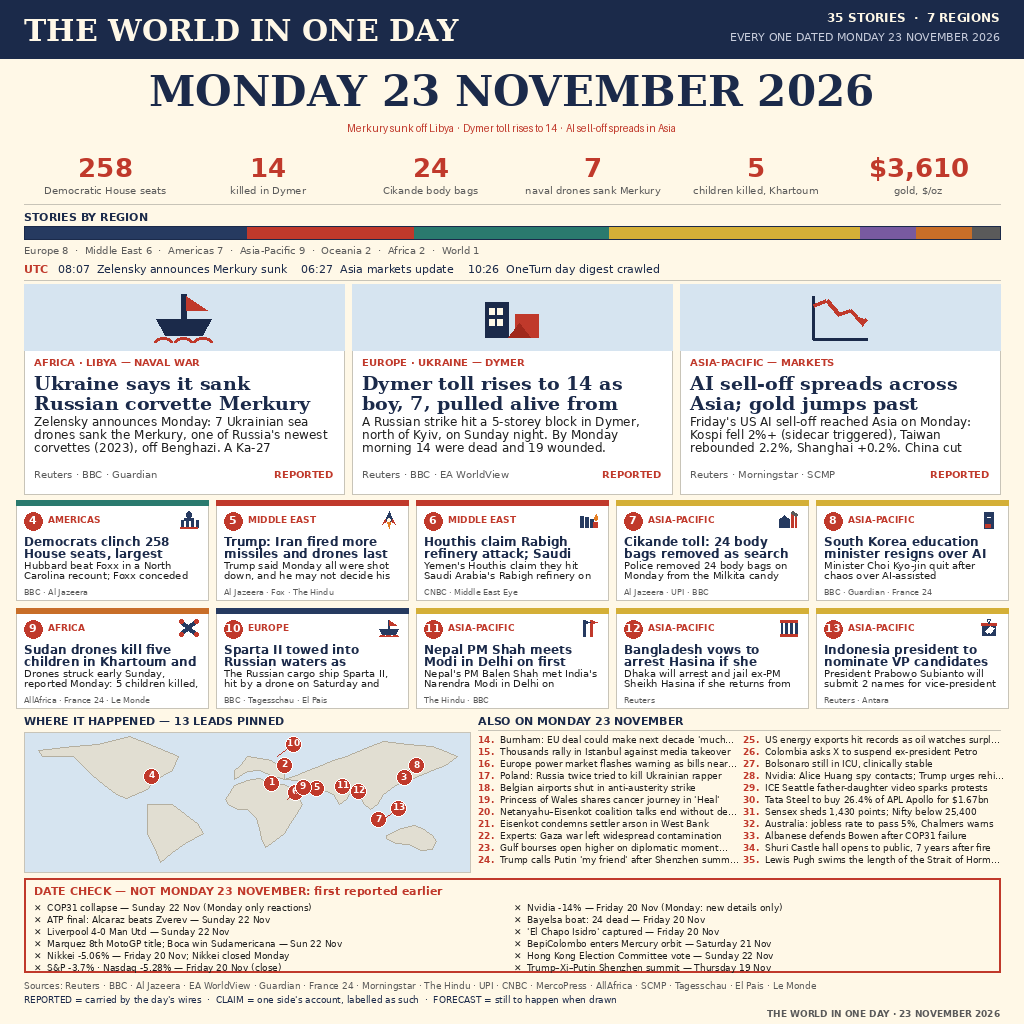
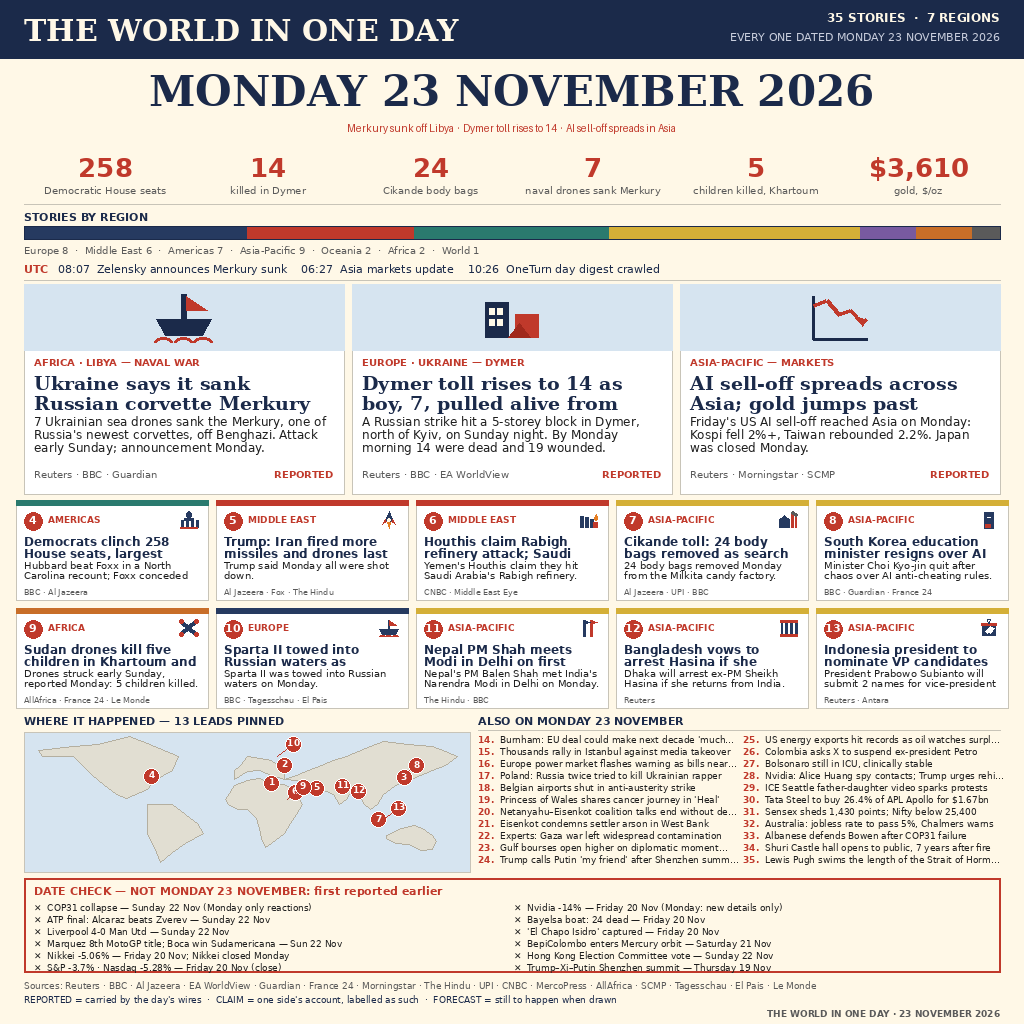
v1.1: shorten lead bodies to fit cards (no mid-sentence truncation); add body-fit guard to verify.py

diff --git a/main.py b/main.py
@@ -221,7 +221,7 @@ LEADS = [
     # num, kicker, headline, body, source, tag, region
     (1, "AFRICA · LIBYA — NAVAL WAR",
      "Ukraine says it sank Russian corvette Merkury off Libya",
-     "Zelensky announces Monday: 7 Ukrainian sea drones sank the Merkury, one of Russia's newest corvettes (2023), off Benghazi. A Ka-27 helicopter was destroyed with it; cargo ship MV Angara was also hit. Attack early Sunday; announcement Monday.",
+     "7 Ukrainian sea drones sank the Merkury, one of Russia's newest corvettes, off Benghazi. Attack early Sunday; announcement Monday.",
      "Reuters · BBC · Guardian", "REPORTED", "Africa"),
     (2, "EUROPE · UKRAINE — DYMER",
      "Dymer toll rises to 14 as boy, 7, pulled alive from rubble",
@@ -229,7 +229,7 @@ LEADS = [
      "Reuters · BBC · EA WorldView", "REPORTED", "Europe"),
     (3, "ASIA-PACIFIC — MARKETS",
      "AI sell-off spreads across Asia; gold jumps past $3,600",
-     "Friday's US AI sell-off reached Asia on Monday: Kospi fell 2%+ (sidecar triggered), Taiwan rebounded 2.2%, Shanghai +0.2%. China cut margin financing to 80% from 30 Nov. Gold +2.2% to $3,610/oz; Bitcoin $61,417. Japan was closed Monday.",
+     "Friday's US AI sell-off reached Asia on Monday: Kospi fell 2%+, Taiwan rebounded 2.2%. Japan was closed Monday.",
      "Reuters · Morningstar · SCMP", "REPORTED", "Asia-Pacific"),
     (4, "AMERICAS — US HOUSE",
      "Democrats clinch 258 House seats, largest majority since 1992",
@@ -237,35 +237,35 @@ LEADS = [
      "BBC · Al Jazeera", "REPORTED", "Americas"),
     (5, "MIDDLE EAST — IRAN",
      "Trump: Iran fired more missiles and drones last week than any week this year",
-     "Trump said Monday all were shot down, and he may not decide his next move until 2027. An Iranian attack wounded 2 in Bahrain; Iran says 2 supertankers were mined and burned near Hormuz.",
+     "Trump said Monday all were shot down.",
      "Al Jazeera · Fox · The Hindu", "REPORTED / CLAIM", "Middle East"),
     (6, "MIDDLE EAST — YEMEN / SAUDI",
      "Houthis claim Rabigh refinery attack; Saudi strike on Hodeida kills 4",
-     "Yemen's Houthis claim they hit Saudi Arabia's Rabigh refinery on the Red Sea coast. A Saudi strike on Hodeida killed at least 4 and wounded 18.",
+     "Yemen's Houthis claim they hit Saudi Arabia's Rabigh refinery.",
      "CNBC · Middle East Eye", "CLAIM / REPORTED", "Middle East"),
     (7, "ASIA-PACIFIC — INDONESIA",
      "Cikande toll: 24 body bags removed as search goes on",
-     "Police removed 24 body bags on Monday from the Milkita candy factory in Cikande, Serang, which burned on Saturday night. Dozens of workers are still missing; Sunday's toll was 3 dead, 36 missing.",
+     "24 body bags removed Monday from the Milkita candy factory.",
      "Al Jazeera · UPI · BBC", "REPORTED", "Asia-Pacific"),
     (8, "ASIA-PACIFIC — SOUTH KOREA",
      "South Korea education minister resigns over AI cheating scandal",
-     "Minister Choi Kyo-jin quit after chaos over AI-assisted anti-cheating measures for the college entrance exam. President Lee Jae Myung accepted the resignation.",
+     "Minister Choi Kyo-jin quit after chaos over AI anti-cheating rules.",
      "BBC · Guardian · France 24", "REPORTED", "Asia-Pacific"),
     (9, "AFRICA — SUDAN",
      "Sudan drones kill five children in Khartoum and Omdurman",
-     "Drones struck early Sunday, reported Monday: 5 children killed, at least 10 wounded; a UN building was damaged. Sudan's army blames neighbouring Ethiopia.",
+     "Drones struck early Sunday, reported Monday: 5 children killed.",
      "AllAfrica · France 24 · Le Monde", "REPORTED / CLAIM", "Africa"),
     (10, "EUROPE — GULF OF FINLAND",
      "Sparta II towed into Russian waters as firefighting goes on",
-     "The Russian cargo ship Sparta II, hit by a drone on Saturday and burning in the Gulf of Finland, was towed into Russian waters on Monday. Finland says Ukraine was likely behind the attack; Kyiv has not commented.",
+     "Sparta II was towed into Russian waters on Monday.",
      "BBC · Tagesschau · El Pais", "REPORTED", "Europe"),
     (11, "ASIA-PACIFIC — INDIA / NEPAL",
      "Nepal PM Shah meets Modi in Delhi on first bilateral trip",
-     "Nepal's PM Balen Shah met India's Narendra Modi in Delhi on Monday, his first bilateral visit since taking office in March. Energy and connectivity top the agenda.",
+     "Nepal's PM Balen Shah met India's Narendra Modi in Delhi on Monday.",
      "The Hindu · BBC", "REPORTED", "Asia-Pacific"),
     (12, "ASIA-PACIFIC — BANGLADESH",
      "Bangladesh vows to arrest Hasina if she returns from India",
-     "Dhaka will arrest and jail ex-PM Sheikh Hasina if she returns from India, a senior minister told Reuters, as her planned December return fuels tension and street violence.",
+     "Dhaka will arrest ex-PM Sheikh Hasina if she returns from India.",
      "Reuters", "REPORTED", "Asia-Pacific"),
     (13, "ASIA-PACIFIC — INDONESIA",
      "Indonesia president to nominate VP candidates on Monday",

diff --git a/verify.py b/verify.py
@@ -72,6 +72,47 @@ check("Nikkei closed Monday (not a Monday move)",
 check("COP31 collapse in DATE CHECK, not a lead",
       "COP31 collapse" in main and "COP31" not in main.split("LEADS")[1].split("BRIEFS")[0].replace("DATE_CHECK", ""))
 
+# body-fit guard (v1.1 fix): no lead body may be silently truncated
+# mid-sentence by draw_wrapped's max_lines. A body that overflows its
+# card must still end its VISIBLE text cleanly (not on a comma or a
+# dangling function word like "on"/"and"/"his"/"from").
+try:
+    from PIL import Image as _Im, ImageDraw as _Id
+    import importlib.util as _ilu
+    _spec = _ilu.spec_from_file_location("entry_main",
+                                         os.path.join(ROOT, "main.py"))
+    _em = _ilu.module_from_spec(_spec)
+    _spec.loader.exec_module(_em)
+    _img = _Im.new("RGB", (1024, 1024))
+    _dr = _Id.Draw(_img)
+    _DANGLING = {"on", "and", "his", "from", "the", "a", "an", "to", "of",
+                 "in", "was", "were", "with", "for", "by", "as", "at", "is",
+                 "are", "be", "been", "has", "had", "will", "would", "could",
+                 "should", "may", "might", "can", "it", "its", "this",
+                 "that", "he", "she", "they", "we", "you", "not", "up",
+                 "out", "over", "after", "before", "during", "while",
+                 "when", "where", "who", "which", "what", "how", "if",
+                 "then", "than", "so", "but", "or", "nor", "yet"}
+    _bad = []
+    for _i, (_num, _k, _h, _b, _s, _t, _r) in enumerate(_em.LEADS):
+        _big = _i < 3
+        _font = _em.F("sans", 12 if _big else 10)
+        _w = 300 if _big else 176
+        _ml = 3 if _big else 2
+        _lines = _em.wrap(_dr, _b, _font, _w)
+        if len(_lines) <= _ml:
+            continue
+        _vis = " ".join(_lines[:_ml])
+        _words = _vis.rstrip().rstrip(".,!?").split()
+        _last = _words[-1].lower() if _words else ""
+        if _vis.rstrip().endswith((",", "…", "-", ";", ":")) or \
+                _last in _DANGLING:
+            _bad.append(f"L{_num} ends '{_vis[-30:]}'")
+    check("no lead body truncated mid-sentence (visible text ends cleanly)",
+          not _bad, "; ".join(_bad))
+except Exception as _e:
+    print(f"SKIP  body-fit guard (no PIL/import): {_e}")
+
 # README badges
 check("README has live competition badge",
       "https://make.fun/badge/news-image-20261123.svg" in readme)
